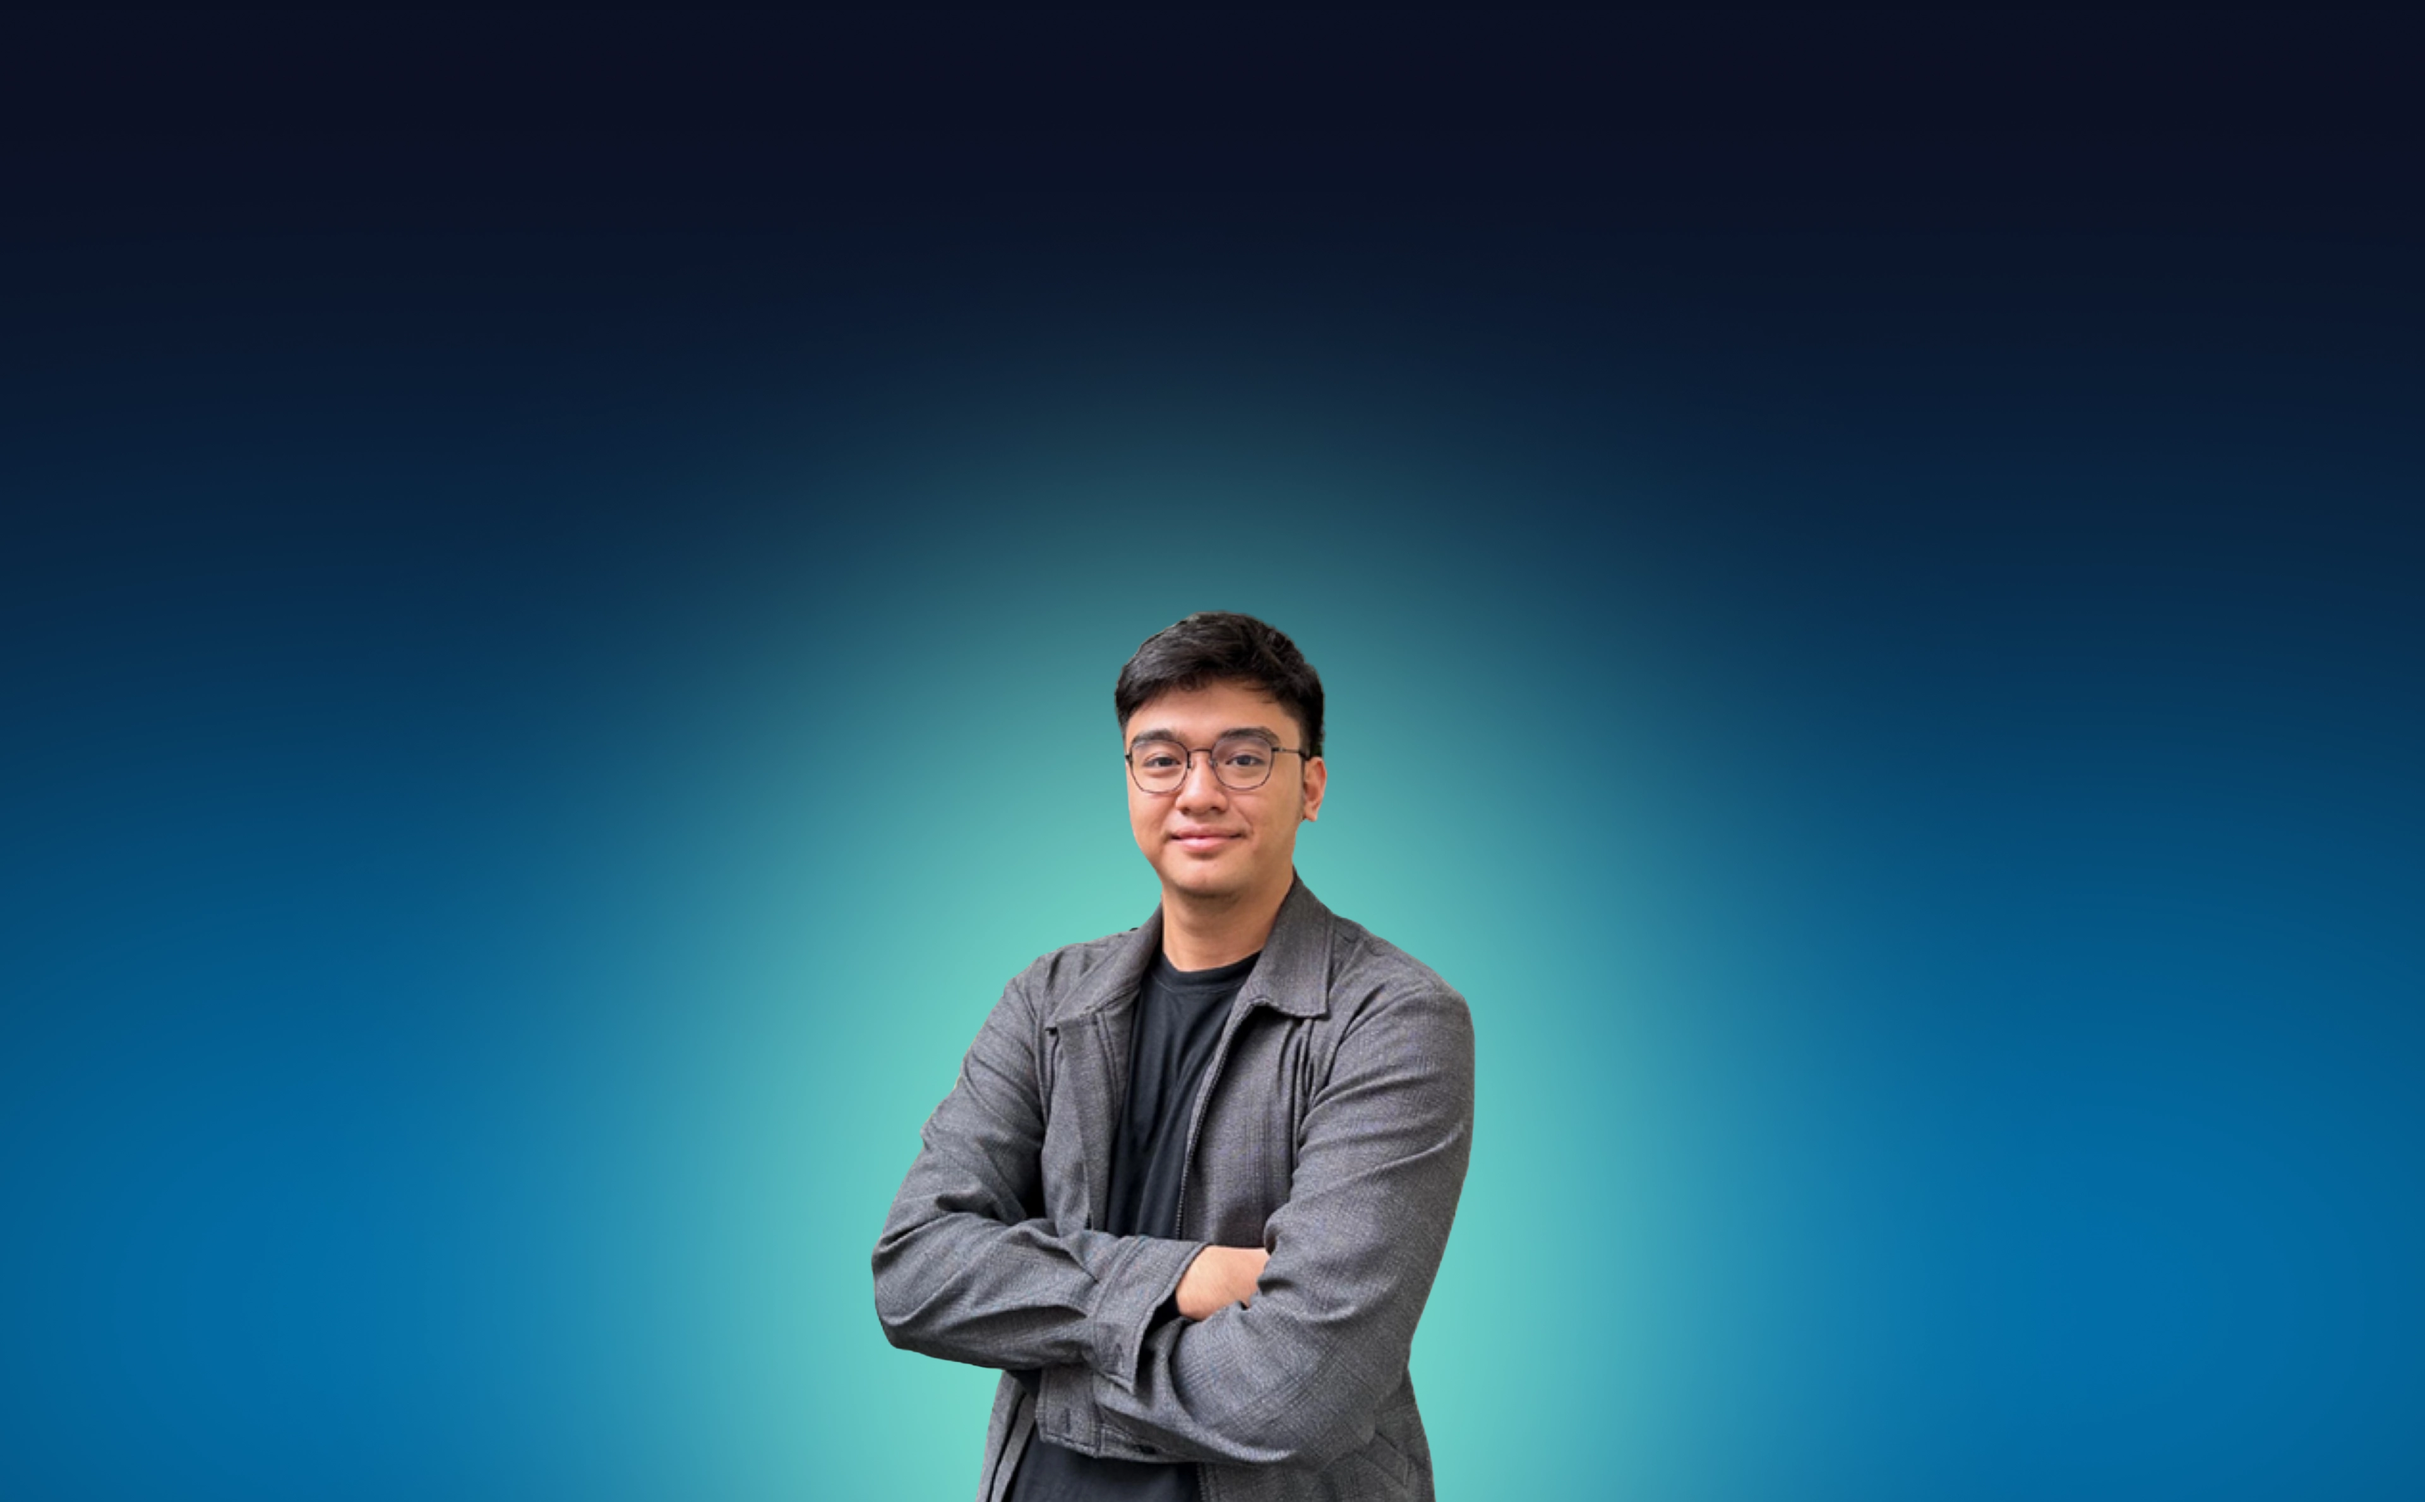
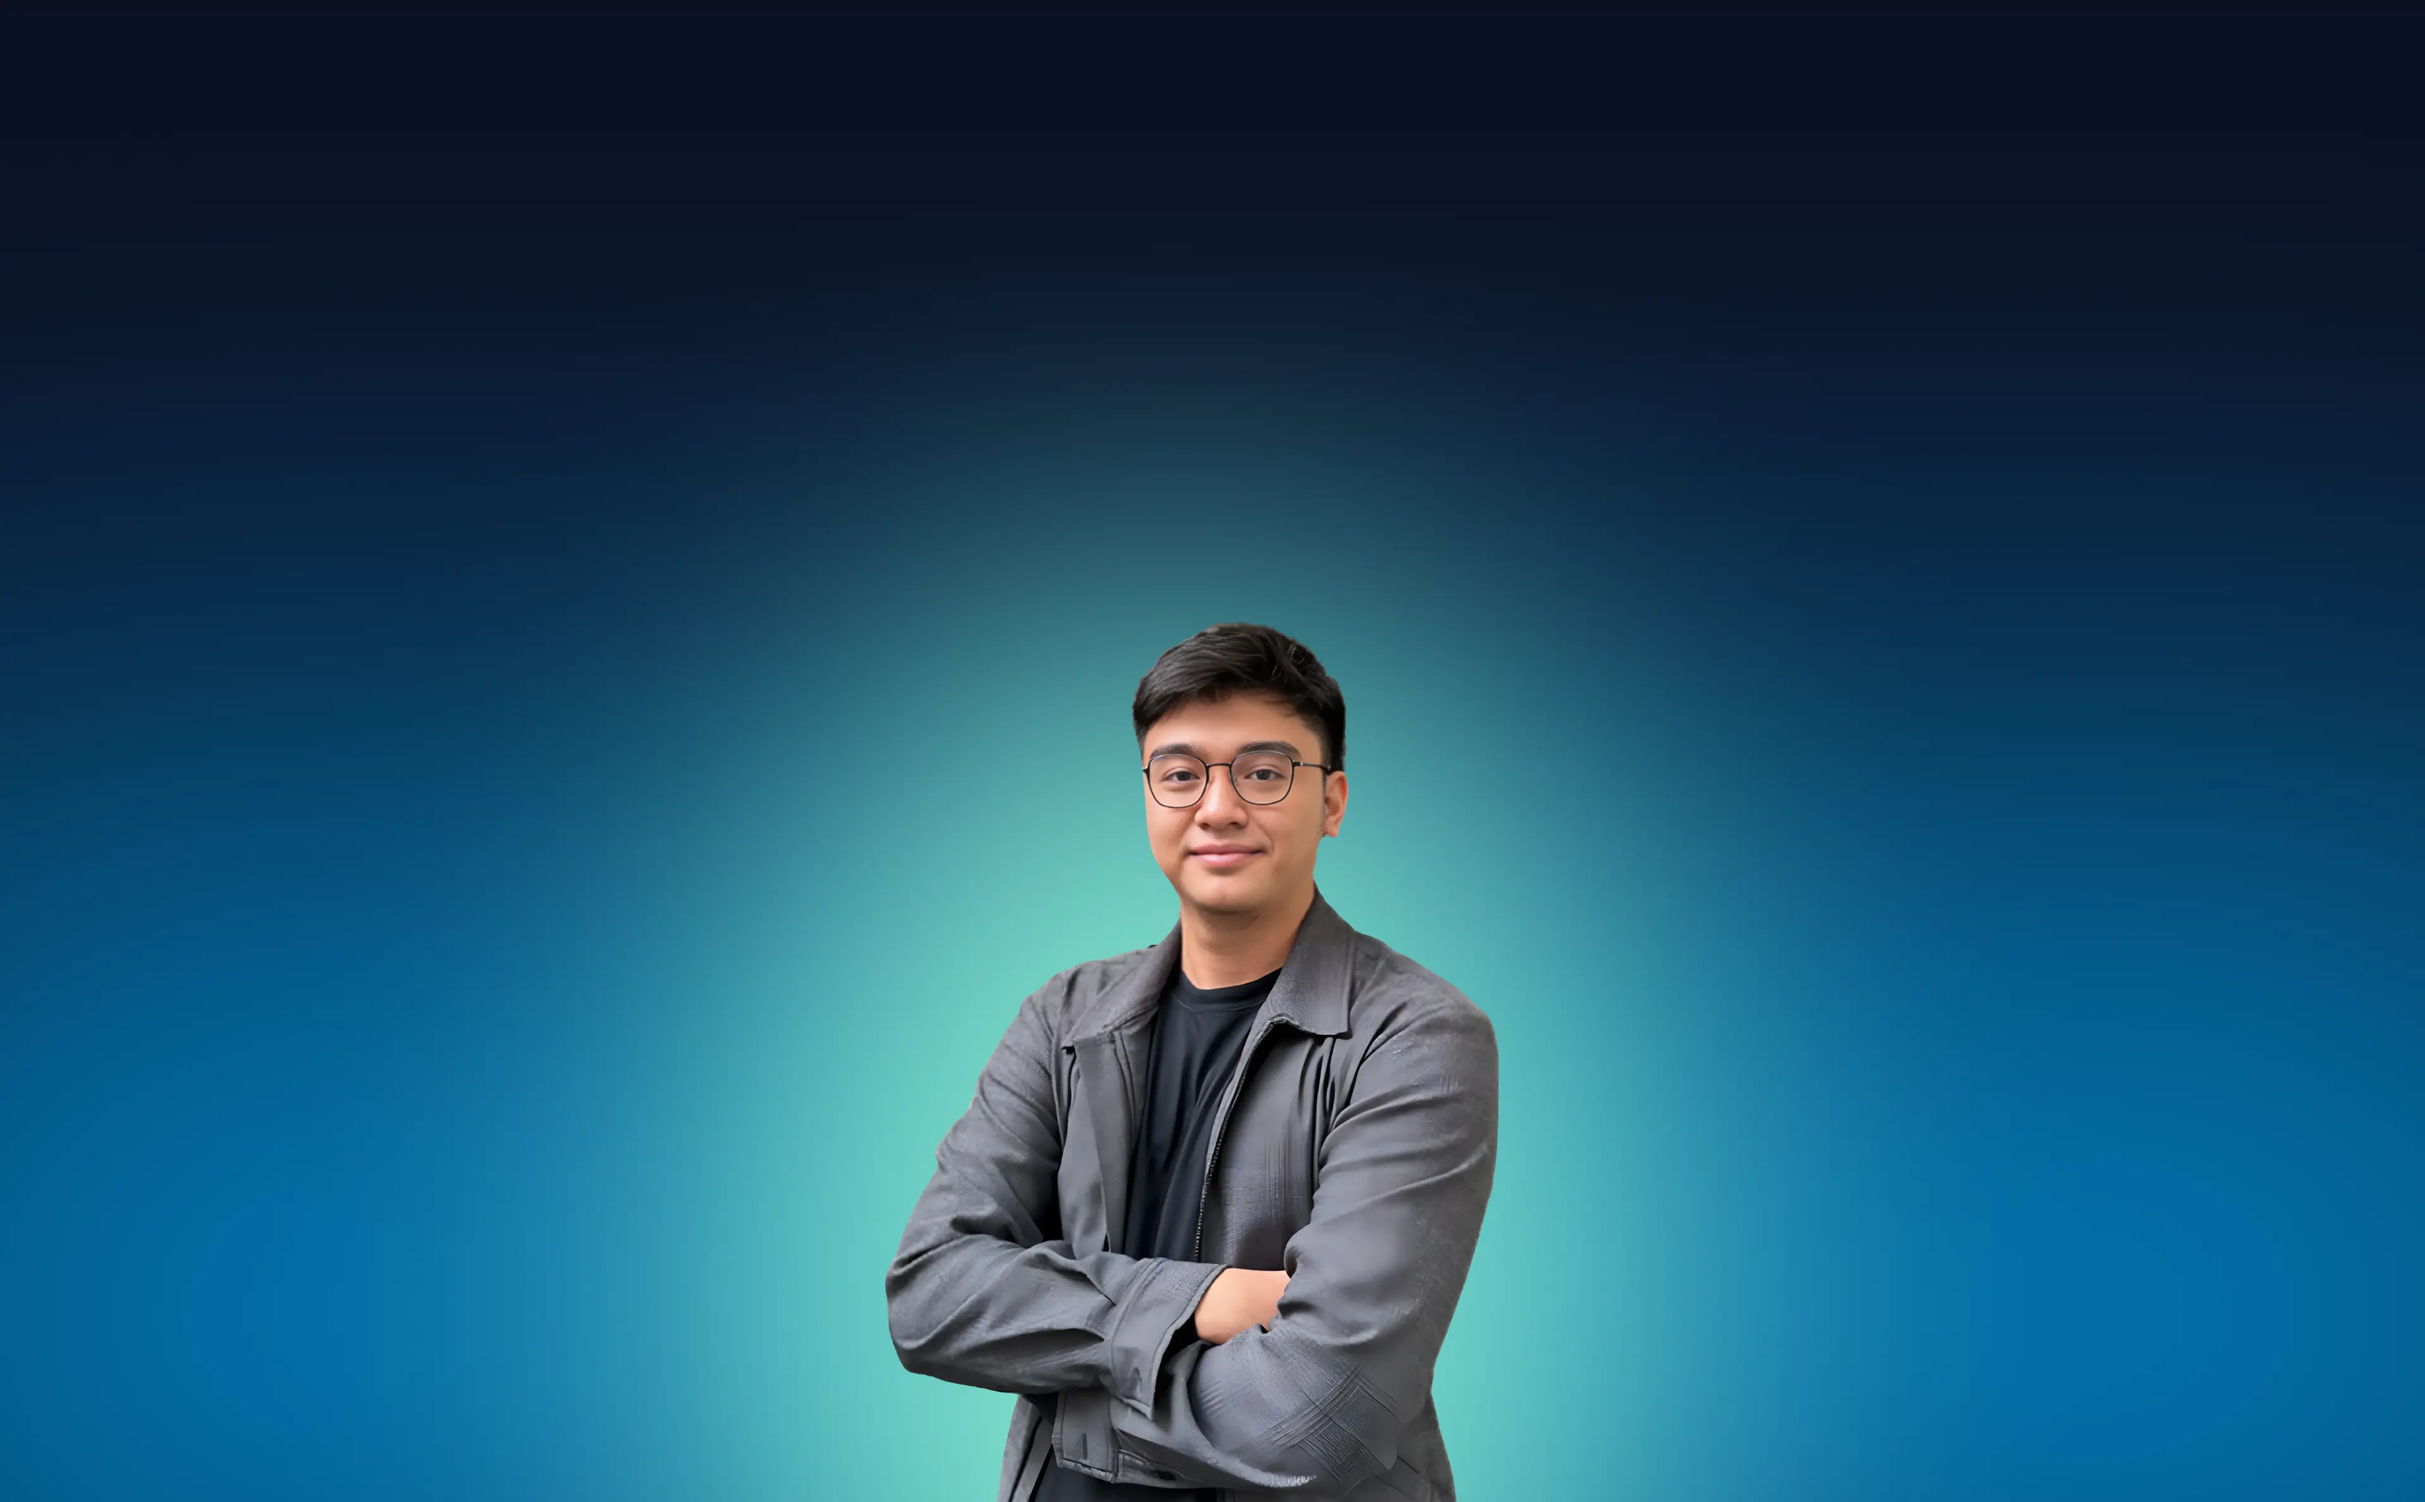
update main background photo

Changed region(s): [[0.3438, 0.4044, 0.625, 1.0]]

diff --git a/app/page.tsx b/app/page.tsx
@@ -4,6 +4,7 @@ import { projects } from "./data/projects";
 import { FaMedal } from "react-icons/fa6";
 import { FiDownload } from "react-icons/fi";
 import Link from "next/link";
+import Head from "next/head";
 // import useInView  from "./hook/useInView";
 
 export default function Home() {
@@ -27,18 +28,19 @@ export default function Home() {
 
   return (
     <main className="overflow-x-hidden">
-      <section
-        className="pt-[0.5rem] bg-cover bg-center h-[100vh] relative bg-black"
-        style={{ backgroundImage: "url('/main-background.webp')" }}
-      >
-        {/* <Image
+      <Head>
+        <link rel="preload" as="image" href="/main-background.webp" />
+      </Head>
+      <section className="pt-[0.5rem] bg-cover bg-center h-[100vh] relative bg-[#0B1023]">
+        <Image
           src="/main-background.webp"
           alt="Background"
-          fill // Ini kunci agar full container
+          fill
           quality={90}
-          priority // preload saat SSR
+          priority
+          fetchPriority="high"
           className="object-cover z-0"
-        /> */}
+        />
         <header className="p-5 z-10 relative">
           <nav className="text-white">
             <ul className="flex gap-10 justify-center mt-1">
